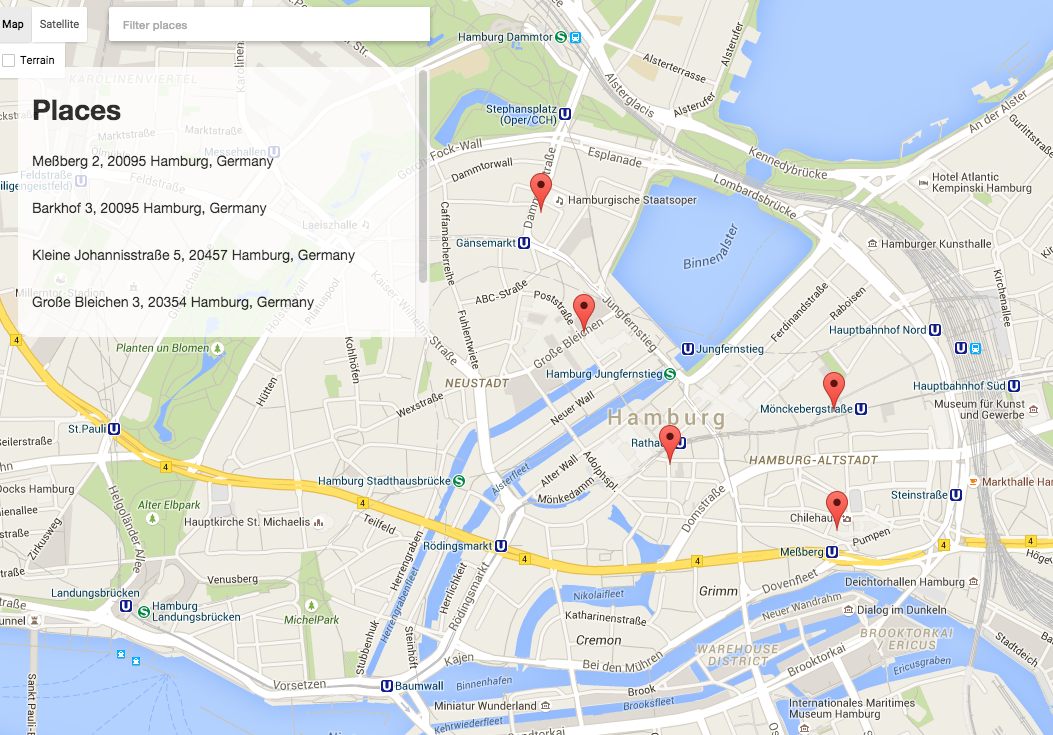
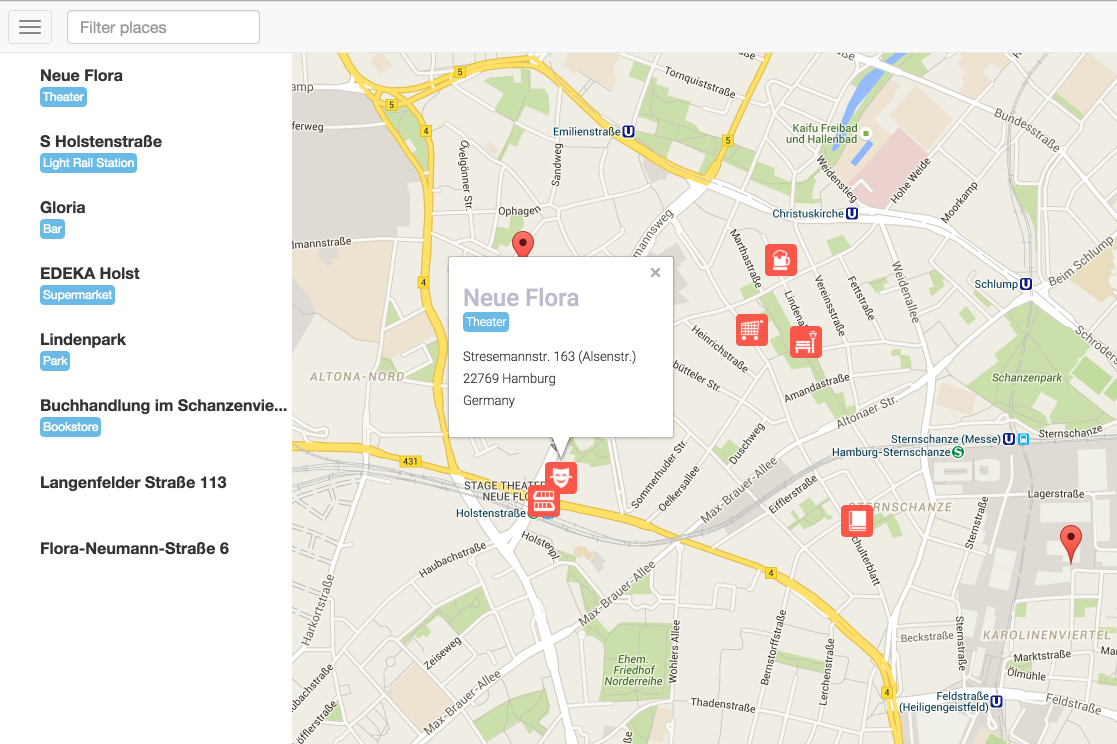
docs: Updated readme

diff --git a/README.md b/README.md
@@ -1,23 +1,33 @@
 # Neighborhood Map
-A project from Udacity's Front-end Web Developer Nano degree.
+A project from Udacity's Front-end Web Developer Nanodegree.
 
 It can be used to create a neighborhood map like the following:
 
 <img src="https://github.com/andreaswachowski/udacity-frontend-p5-neighborhood-map/blob/master/screenshot.png" height=auto width="100%">
 
-After centering/zooming the
-map to the desired area (it is initially set to an area in Hamburg, Germany),
-click on the map to create markers. The markers are collected in the drop-down
-list “places”. You can filter the places in the search field next to it.
+During load, if the device supports geolocation, the map center can be
+initialized to your location. Subsequent loads will retain that initial location (via localStorage).
 
-Places can also be modified: Edit the title of a location by
+Click on the map to create markers. Markers are reverse geocoded and the
+corresponding places collected in the sidebar.
+
+Explore the place by clicking on the magnifier glass, which is shown while
+hovering over its entry in the sidebar (on mobile devices, the button is always
+shown). Exploring will extend the place with five venues from the vicinity
+found by Foursquare. You can promote such a venue to a proper place by clicking
+on its star icon.
+
+Place titles can also be modified: Edit the title of a location by
 double-clicking on the corresponding list entry (or clicking its edit
 button).
 
 A single click pans to the selected marker.
 
+Places are persisted to localStorage for future use.
+
 # Installation
 * Clone the git repository to a local directory
+* Enter your Foursquare API credentials in `app/js/app.js` (right at the top, you will see where in the file)
 * Call [grunt](http://gruntjs.com/getting-started) (assumes grunt-cli is already installed):
   1. Change to the project's root directory
   2. Run
